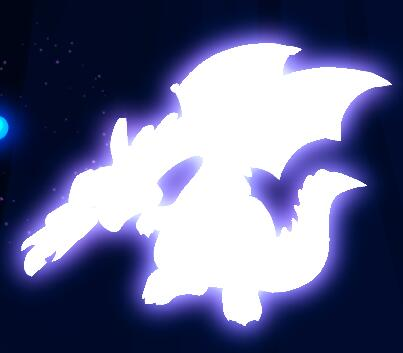
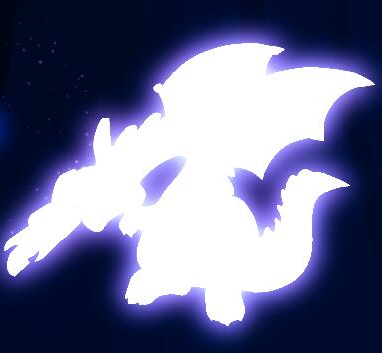
修正图太大和一些错误文本

diff --git a/README.md b/README.md
@@ -2,7 +2,7 @@
 ## 1. 从2D图形转出3D建模.
   **Photoshop**处理导出**路径AI**文件,然后导入**3dsMax**.导出**FBX**到Unity中使用.  
   
-  [从2D图形转出3D建模.](https://github.com/Zvirtuosity/Funny/01.从2D图形转出3D建模)  
+  [从2D图形转出3D建模.](https://github.com/Zvirtuosity/Funny/tree/master/01.%20从2D图形转出3D建模)  
   原图:![image](https://github.com/Zvirtuosity/Funny/blob/master/01.%20从2D图形转出3D建模/1.jpg)  
   过程:![image](https://github.com/Zvirtuosity/Funny/blob/master/01.%20从2D图形转出3D建模/4.jpg)  
   结果:![image](https://github.com/Zvirtuosity/Funny/blob/master/01.%20从2D图形转出3D建模/5.jpg)  
